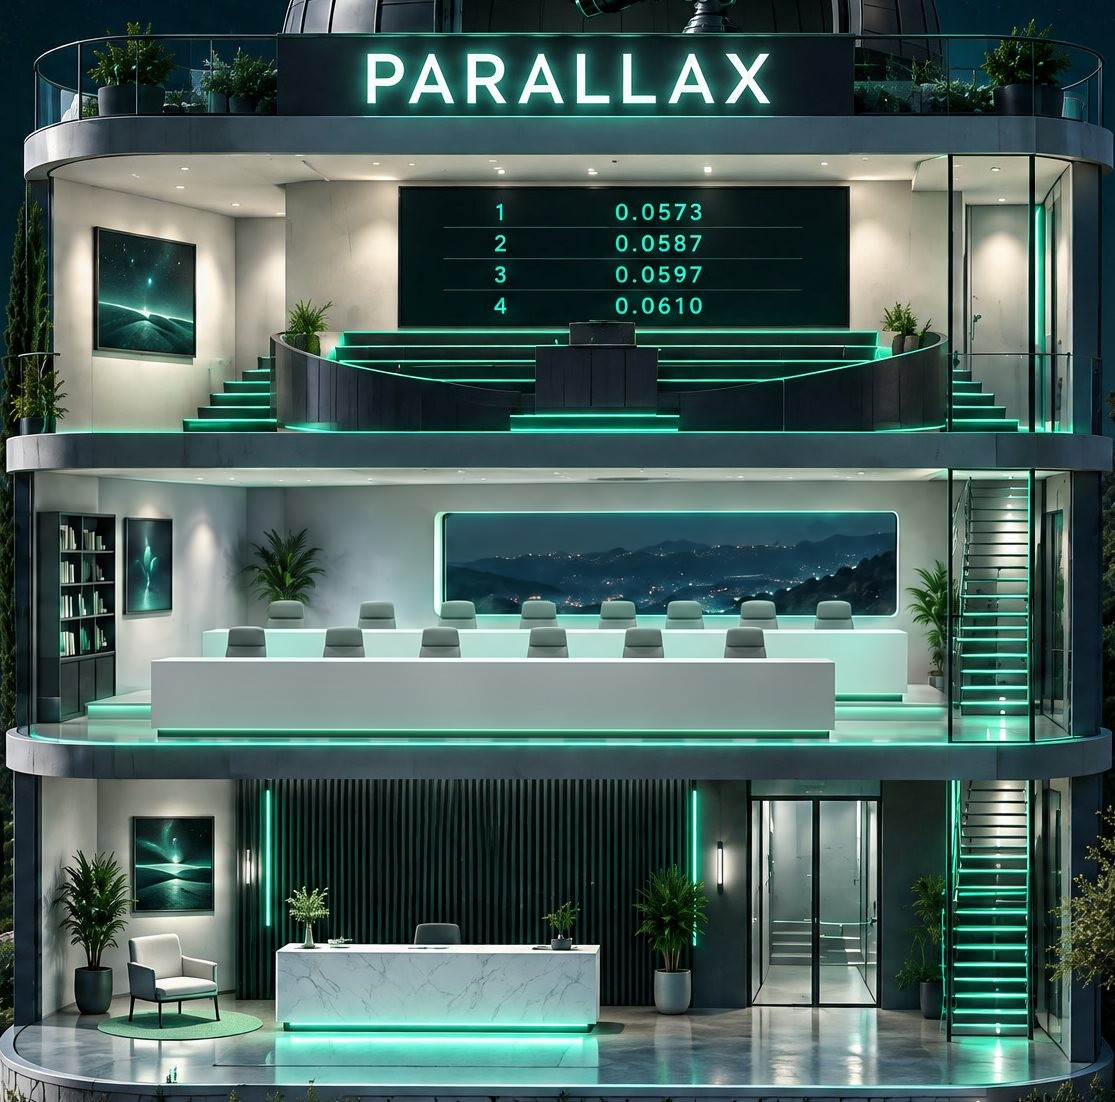
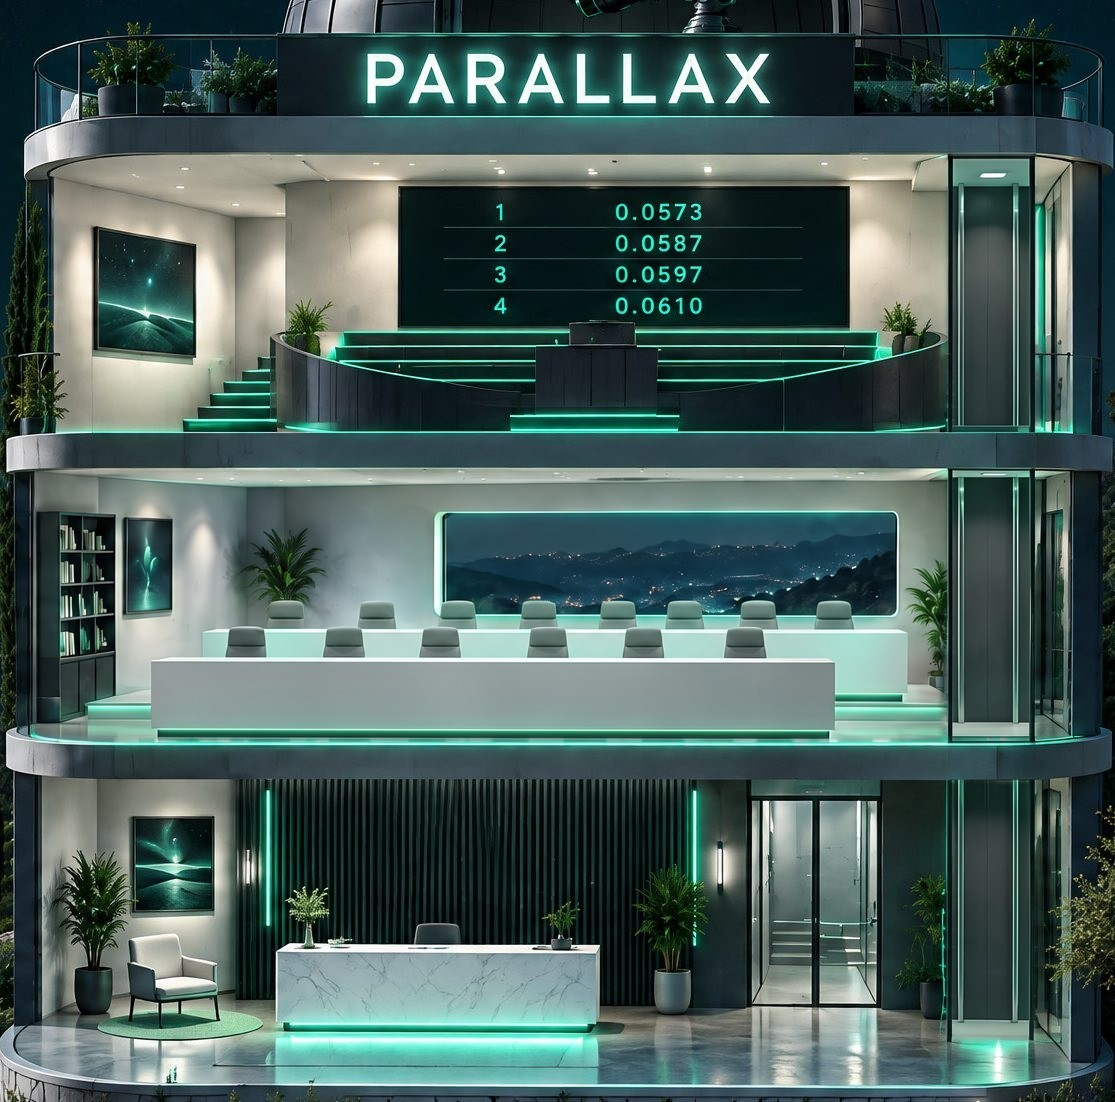
Workroom: a glass lift instead of the stairs
The stairwell is redrawn as a glass lift shaft through all three floors,
and a car with sliding glass doors runs in it. People queue at the doors,
ride up to four at a time, and step out on their floor; the car passes
behind the floor slabs, which are lifted into their own layer.

Changed region(s): [[0.8538, 0.1234, 0.9453, 0.6788], [0.8538, 0.7096, 0.9453, 0.9564]]

diff --git a/web/src/Workroom.tsx b/web/src/Workroom.tsx
@@ -26,7 +26,11 @@ const name = (id?: string) => (id ? NAMES[id] ?? id.replace(/^outside:/, '') : '
 // The stage picture is 1115 x 1102; everything below is in its pixels.
 const W = 1115, H = 1102;
 const FLOOR = [430, 740, 1040]; // the line the feet walk on: hall, desks, street
-const STAIR = 992;              // the stairwell on the right joins all three floors
+// A glass lift on the right joins all three floors. Its car (drawn by the page) holds four, at SLOTS from the middle;
+// people queue at `wait` to its left, and it passes behind the two floor slabs (design/scripts/lift.py).
+const LIFT = { x: 991, w: 76, h: 168, wait: 920, gap: 27, speed: 260, door: 0.35, dwell: 0.45 };
+const SLOTS = [18, -16, 3, -6];
+const SHAFT_TOP = 150;
 const SPEED = 150;              // walking speed, px per second, the same for every walk
 // One step (heel to heel) in the walk sheets is about 65 px of a 200 px figure, 40 px here; the cycle is four
 // frames over two steps, so each frame is held for half a step and the planted foot keeps still on the floor.
@@ -192,7 +196,7 @@ function fold(beats: Beat[]): Scene {
   return s;
 }
 
-type Pt = { x: number; y: number; floor: number };
+type Pt = { x: number; y: number; floor: number; lift?: number }; // `lift`: wait here for the car to that floor
 type Goal = Pt & { sit?: boolean; row?: Row };
 /** The desk row someone is walking or sitting behind, if any. */
 const rowAt = (p: Pt) => (p.floor === 1 ? (['back', 'front'] as Row[]).find((r) => Math.abs(p.y - ROWS[r].walk) < 1) : undefined);
@@ -214,23 +218,27 @@ function route(at: Pt, to: Goal): Pt[] {
   const from = out[out.length - 1] ?? at;
   const behindCounter = (p: Pt) => p.floor === 2 && p.y < FLOOR[2] - 10;
   if (behindCounter(from) && !behindCounter(to)) out.push({ x: COUNTER.past, y: FLOOR[2], floor: 2 });
-  if (from.floor !== to.floor) {
-    out.push({ x: STAIR, y: FLOOR[from.floor], floor: from.floor });
-    const d = to.floor > from.floor ? 1 : -1;
-    for (let f = from.floor + d; ; f += d) { out.push({ x: STAIR, y: FLOOR[f], floor: f }); if (f === to.floor) break; }
-  }
+  if (from.floor !== to.floor) out.push({ x: LIFT.wait, y: FLOOR[from.floor], floor: from.floor, lift: to.floor });
   if (behindCounter(to) && !behindCounter(from)) out.push({ x: COUNTER.past, y: FLOOR[2], floor: 2 });
   if (to.row) out.push({ x: ROWS[to.row].exit, y: FLOOR[1], floor: 1 }, { x: ROWS[to.row].exit, y: to.y, floor: 1 });
   out.push(to);
   return out;
 }
 
-type Body = Pt & { id: string; path: Pt[]; goal: Goal; face: 1 | -1; walked: number; seated: boolean; moving: boolean; pose?: Pose; busy: boolean; el?: HTMLDivElement | null; spr?: HTMLDivElement | null; lab?: HTMLElement | null };
+// A ride: waiting at the doors (queued at `qx`), stepping in to a slot, or on board.
+type Ride = { to: number; since: number; qx: number; board: boolean; on: boolean; slot: number };
+type Body = Pt & { id: string; path: Pt[]; goal: Goal; face: 1 | -1; walked: number; stepped: boolean; seated: boolean; moving: boolean; pose?: Pose; busy: boolean; ride?: Ride; el?: HTMLDivElement | null; spr?: HTMLDivElement | null; lab?: HTMLElement | null };
+type Car = { y: number; floor: number; state: 'shut' | 'opening' | 'open' | 'closing' | 'moving'; doors: number; from: number; to: number; p: number; dwell: number };
+const parked = (): Car => ({ y: FLOOR[1], floor: 1, state: 'shut', doors: 0, from: FLOOR[1], to: 1, p: 0, dwell: 0 });
+
 
 /** Everyone's position, moved every frame at one walking speed; React only says where each one should be. */
 class Crowd {
   bodies = new Map<string, Body>();
+  car = parked();
+  carEl?: { back: HTMLDivElement | null; front: HTMLDivElement | null; cable: HTMLElement | null };
   rush = 1;
+  private clock = 0;
   onArrive?: (id: string) => void;
   private raf = 0;
   private last = 0;
@@ -241,8 +249,9 @@ class Crowd {
     for (const id of ROSTER) {
       const g = goalOf(id, 'desk');
       const old = this.bodies.get(id);
-      this.bodies.set(id, { ...g, id, path: [], goal: g, face: g.x > BOARD ? -1 : 1, walked: 0, seated: !!g.sit, moving: false, busy: false, el: old?.el, spr: old?.spr, lab: old?.lab });
+      this.bodies.set(id, { ...g, id, path: [], goal: g, face: g.x > BOARD ? -1 : 1, walked: 0, stepped: false, seated: !!g.sit, moving: false, busy: false, el: old?.el, spr: old?.spr, lab: old?.lab });
     }
+    this.car = parked();
   }
 
   aim(id: string, p: Place, pose: Pose | undefined, busy: boolean) {
@@ -254,7 +263,16 @@ class Crowd {
     if (g.x === b.goal.x && g.y === b.goal.y && g.floor === b.goal.floor) { if (!b.path.length) b.seated = !!g.sit; b.goal = g; return; }
     b.goal = g;
     b.seated = false;
-    b.path = route(b, g);
+    const r = b.ride;
+    if (r && (r.on || r.board)) {
+      // already in the car: ride on to that floor, then head for the new goal from there
+      r.board = false; r.on = true;
+      const out = { x: LIFT.x, y: FLOOR[r.to], floor: r.to };
+      b.path = [{ ...out, lift: r.to }, ...route(out, g)];
+    } else {
+      b.ride = undefined;
+      b.path = route(b, g);
+    }
     b.moving = true;
   }
 
@@ -269,7 +287,10 @@ class Crowd {
     const loop = (t: number) => {
       const dt = this.last ? Math.min(0.05, (t - this.last) / 1000) : 0;
       this.last = t;
+      this.clock += dt;
+      this.runCar(dt);
       for (const b of this.bodies.values()) { this.step(b, dt); this.draw(b, t); }
+      this.drawCar();
       this.raf = requestAnimationFrame(loop);
     };
     this.raf = requestAnimationFrame(loop);
@@ -277,14 +298,32 @@ class Crowd {
 
   stop() { cancelAnimationFrame(this.raf); this.last = 0; }
 
+  /** Walk straight along the floor towards x, at walking speed; true once there. */
+  private shuffle(b: Body, x: number, dt: number) {
+    const dx = x - b.x, go = SPEED * this.rush * dt;
+    if (Math.abs(dx) < 0.5) return true;
+    b.face = dx > 0 ? 1 : -1;
+    const m = Math.min(Math.abs(dx), go);
+    b.x += Math.sign(dx) * m; b.walked += m; b.stepped = true;
+    return m === Math.abs(dx);
+  }
+
   private step(b: Body, dt: number) {
+    b.stepped = false;
+    const r = b.ride;
+    if (r?.on) { b.x = LIFT.x + SLOTS[r.slot]; b.y = this.car.y; b.floor = this.car.floor; b.face = -1; return; }
+    if (r?.board) { if (this.shuffle(b, LIFT.x + SLOTS[r.slot], dt)) { r.board = false; r.on = true; } return; }
+    if (r) { if (this.shuffle(b, r.qx, dt)) b.face = 1; return; }
     let left = SPEED * this.rush * dt;
     while (left > 0 && b.path.length) {
       const n = b.path[0];
       const dx = n.x - b.x, dy = n.y - b.y, d = Math.hypot(dx, dy);
       if (Math.abs(dx) > 0.5) b.face = dx > 0 ? 1 : -1;
+      b.stepped = true;
       if (d <= left) {
         b.x = n.x; b.y = n.y; b.floor = n.floor; b.walked += d; left -= d;
+        // at the lift doors: join the queue, and the car takes it from here
+        if (n.lift !== undefined) { b.ride = { to: n.lift, since: this.clock, qx: n.x, board: false, on: false, slot: -1 }; break; }
         b.path.shift();
       } else {
         b.x += (dx / d) * left; b.y += (dy / d) * left; b.walked += left; left = 0;
@@ -299,9 +338,62 @@ class Crowd {
     }
   }
 
+  /** The car: go where the first rider is going (or to the longest wait), open, let people out and in, close. */
+  private runCar(dt: number) {
+    const c = this.car, k = dt * this.rush, all = [...this.bodies.values()];
+    const inCar = all.filter((b) => b.ride && (b.ride.on || b.ride.board));
+    const queue = all.filter((b) => b.ride && !b.ride.on && !b.ride.board).sort((a, b) => a.ride!.since - b.ride!.since);
+    for (const f of [0, 1, 2]) queue.filter((b) => b.floor === f).forEach((b, i) => { b.ride!.qx = LIFT.wait - i * LIFT.gap; });
+    const here = c.state === 'moving' ? [] : queue.filter((b) => b.floor === c.floor);
+    const free = () => SLOTS.findIndex((_, i) => !all.some((b) => b.ride && (b.ride.on || b.ride.board) && b.ride.slot === i));
+    switch (c.state) {
+      case 'shut': {
+        const to = inCar.length ? inCar[0].ride!.to : queue[0]?.floor;
+        if (to === undefined) break;
+        if (to === c.floor) c.state = 'opening';
+        else Object.assign(c, { state: 'moving', from: c.y, to, p: 0 });
+        break;
+      }
+      case 'moving': {
+        c.p = Math.min(1, c.p + (k * LIFT.speed) / Math.abs(FLOOR[c.to] - c.from));
+        c.y = c.from + (FLOOR[c.to] - c.from) * c.p * c.p * (3 - 2 * c.p);
+        c.floor = FLOOR.reduce((best, y, i) => (Math.abs(y - c.y) < Math.abs(FLOOR[best] - c.y) ? i : best), 0);
+        if (c.p >= 1) { c.floor = c.to; c.state = 'opening'; }
+        break;
+      }
+      case 'opening':
+        c.doors = Math.min(1, c.doors + k / LIFT.door);
+        if (c.doors < 1) break;
+        c.state = 'open'; c.dwell = 0;
+        for (const b of inCar) if (b.ride!.on && b.ride!.to === c.floor) { b.ride = undefined; b.path.shift(); b.y = FLOOR[c.floor]; b.floor = c.floor; }
+        break;
+      case 'open': {
+        c.dwell += k;
+        for (const b of here) { const s = free(); if (s < 0) break; Object.assign(b.ride!, { board: true, slot: s }); }
+        // wait for anyone still stepping in, or still stepping out through the doors
+        const busy = all.some((b) => b.ride?.board || (!b.ride && b.floor === c.floor && b.y === FLOOR[c.floor] && b.x > LIFT.x - LIFT.w / 2 - 6));
+        if (c.dwell > LIFT.dwell && !busy) c.state = 'closing';
+        break;
+      }
+      case 'closing':
+        if (here.length && free() >= 0) { c.state = 'opening'; break; }
+        c.doors = Math.max(0, c.doors - k / LIFT.door);
+        if (c.doors <= 0) c.state = 'shut';
+    }
+  }
+
+  private drawCar() {
+    const e = this.carEl, c = this.car;
+    if (!e?.back || !e.front) return;
+    const top = c.y - LIFT.h;
+    for (const el of [e.back, e.front]) { el.style.top = `${(top / H) * 100}%`; }
+    if (e.cable) e.cable.style.height = cq(top - SHAFT_TOP);
+    e.front.style.setProperty('--open', String(c.doors));
+  }
+
   private draw(b: Body, t: number) {
     if (!b.el || !b.spr) return;
-    const moving = b.path.length > 0;
+    const moving = b.stepped;
     let frame: (typeof FRAMES)[number] = 'idle', lift = 0;
     if (moving) {
       // The passing frames stand taller than the contact ones, so the head already rises and falls with each step;
@@ -316,7 +408,8 @@ class Crowd {
       frame = glance ? 'look' : 'type';
       if (frame === 'type') lift = Math.sin(t / 55) > 0 ? 0.9 : 0;
     } else {
-      frame = b.pose ?? 'idle';
+      // waiting for the lift or riding it, stand easy (the parcel stays in hand)
+      frame = b.ride && b.pose !== 'box' ? 'idle' : b.pose ?? 'idle';
       if (frame === 'cheer') lift = Math.abs(Math.sin(t / 160)) * 6;
       else lift = Math.sin(t / 700 + b.goal.x) * 0.6; // breathing
     }
@@ -326,10 +419,12 @@ class Crowd {
     const behind = b.floor === 2 && b.y < FLOOR[2] - 10;
     b.el.style.left = `${(b.x / W) * 100}%`;
     b.el.style.top = `${(y / H) * 100}%`;
-    b.el.style.zIndex = row ? String(ROWS[row].z) : behind ? '3' : '5';
+    const riding = !!(b.ride?.on || b.ride?.board);
+    b.el.style.zIndex = riding ? '6' : row ? String(ROWS[row].z) : behind ? '3' : '5';
     b.el.classList.toggle('sit', sitting);
     if (b.lab) {
-      // the name sits on the desk front while someone is behind it, under the feet otherwise
+      // the name sits on the desk front while someone is behind it, under the feet otherwise, and not in the lift
+      b.lab.style.visibility = riding ? 'hidden' : '';
       b.lab.style.left = b.el.style.left;
       b.lab.style.top = `${((row ? ROWS[row].top + 5 : b.y + 6) / H) * 100}%`;
     }
@@ -437,6 +532,10 @@ export function Workroom({ o, lots, steps, live }: { o: Order; lots: LiveLot[]; 
         {ROSTER.map((id) => (
           <Figure key={id} id={id} crowd={crowd} tag={scene.tag[id]} glow={scene.glow.has(id)} bubble={scene.bubble?.who === id ? scene.bubble : undefined} />
         ))}
+        <div className="wr-car" ref={(el) => { crowd.carEl = { ...crowd.carEl!, back: el }; }}><i ref={(el) => { crowd.carEl = { ...crowd.carEl!, cable: el }; }} /></div>
+        <div className="wr-car front" ref={(el) => { crowd.carEl = { ...crowd.carEl!, front: el }; }}><i /><i /></div>
+        <img className="wr-slab s1" src="/stage-slab-1.webp" alt="" />
+        <img className="wr-slab s2" src="/stage-slab-2.webp" alt="" />
         <img className="wr-counter" src="/stage-counter.png" alt="" />
         {scene.place.messenger === 'street' && kitIn && !scene.end && <span className="wr-parcel">Your work, boxed</span>}
         {coins.map(([id, pay], i) => <Coin key={`${run}-${id}`} to={goalOf(id, 'desk')} pay={pay} delay={500 + i * 220} />)}

diff --git a/web/src/styles.css b/web/src/styles.css
@@ -164,6 +164,15 @@ table.leads td b{font-size:15px}
 .wr-pills span{background:var(--cyan-soft);color:var(--cyan-ink);border-radius:99px;padding:.35cqw 1cqw;font:600 max(9px,1.25cqw)/1.2 'Inter Tight',sans-serif;animation:pop .35s ease-out both}
 .wr-pills span.out{opacity:.55;text-decoration:line-through}
 .wr-desk{position:absolute;pointer-events:none}
+/* The lift car: its back (with the cable) under the riders, its glass doors over them, the floor slabs over both. */
+.wr-car{position:absolute;left:85.471%;width:6.816%;height:15.245%;z-index:5;pointer-events:none;border-radius:.3cqw;background:linear-gradient(90deg,rgba(18,24,26,.92),rgba(44,54,57,.9) 50%,rgba(18,24,26,.92));box-shadow:inset 0 -.55cqw 0 #c9d6d2,inset 0 .35cqw 0 #2a3335,inset 0 .9cqw 1.2cqw -0.6cqw rgba(170,255,225,.35)}
+.wr-car i{position:absolute;left:50%;bottom:100%;width:.18cqw;transform:translateX(-50%);background:#5d6a6d}
+.wr-car.front{z-index:7;background:none;box-shadow:inset 0 0 0 .22cqw #1c2325,0 0 .8cqw rgba(0,236,151,.25);overflow:hidden}
+.wr-car.front i{position:absolute;top:0;bottom:0;left:0;right:auto;width:50%;transform:translateX(calc(var(--open,0) * -100%));background:linear-gradient(90deg,rgba(190,240,225,.16),rgba(230,255,247,.3));border-right:.12cqw solid rgba(0,236,151,.7)}
+.wr-car.front i+i{left:50%;transform:translateX(calc(var(--open,0) * 100%));border-right:0;border-left:.12cqw solid rgba(0,236,151,.7)}
+.wr-slab{position:absolute;pointer-events:none;z-index:8}
+.wr-slab.s1{left:84.305%;top:39.020%;width:9.327%;height:3.448%}
+.wr-slab.s2{left:84.305%;top:67.151%;width:9.327%;height:3.448%}
 .wr-desk.back{left:18.117%;top:57.078%;width:63.318%;height:6.443%;z-index:2}
 .wr-desk.front{left:13.453%;top:59.619%;width:61.614%;height:7.804%;z-index:4}
 .wr-fig{position:absolute;width:0;height:0;display:flex;flex-direction:column;align-items:center;z-index:5}

diff --git a/design/scripts/lift.py b/design/scripts/lift.py
@@ -1,0 +1,22 @@
+# The stairwell on the right of web/public/stage.jpg is now a glass lift shaft: design/scene/lift-shaft.webp (an
+# inpaint of the stage, 2048 x 2048) resized to 1115 x 1102 and pasted into the shaft on each floor with a 3 px
+# feather. The car is drawn by the page and passes behind the two floor slabs, so this also lifts the slab faces
+# where they cross the shaft into web/public/stage-slab-1.webp and -2.webp, drawn over the car.
+#   <python with numpy, scipy, pillow> design/scripts/lift.py
+from PIL import Image, ImageDraw, ImageFilter
+
+SHAFT = [(946, 150, 1036, 432), (946, 466, 1036, 742), (946, 776, 1036, 1042)]
+SLABS = [(940, 430, 1044, 468), (940, 740, 1044, 778)]
+
+stage = Image.open('web/public/stage.jpg').convert('RGB')
+new = Image.open('design/scene/lift-shaft.webp').convert('RGB').resize(stage.size, Image.LANCZOS)
+mask = Image.new('L', stage.size, 0)
+d = ImageDraw.Draw(mask)
+for box in SHAFT:
+    d.rectangle((box[0] + 3, box[1] + 3, box[2] - 3, box[3] - 3), fill=255)
+stage.paste(new, (0, 0), mask.filter(ImageFilter.GaussianBlur(3)))
+stage.save('web/public/stage.jpg', quality=90)
+for i, box in enumerate(SLABS, 1):
+    stage.crop(box).save(f'web/public/stage-slab-{i}.webp', quality=90, method=6)
+    x0, y0, x1, y1 = box
+    print(f'.wr-slab.s{i}{{left:{x0 / 11.15:.3f}%;top:{y0 / 11.02:.3f}%;width:{(x1 - x0) / 11.15:.3f}%;height:{(y1 - y0) / 11.02:.3f}%}}')
